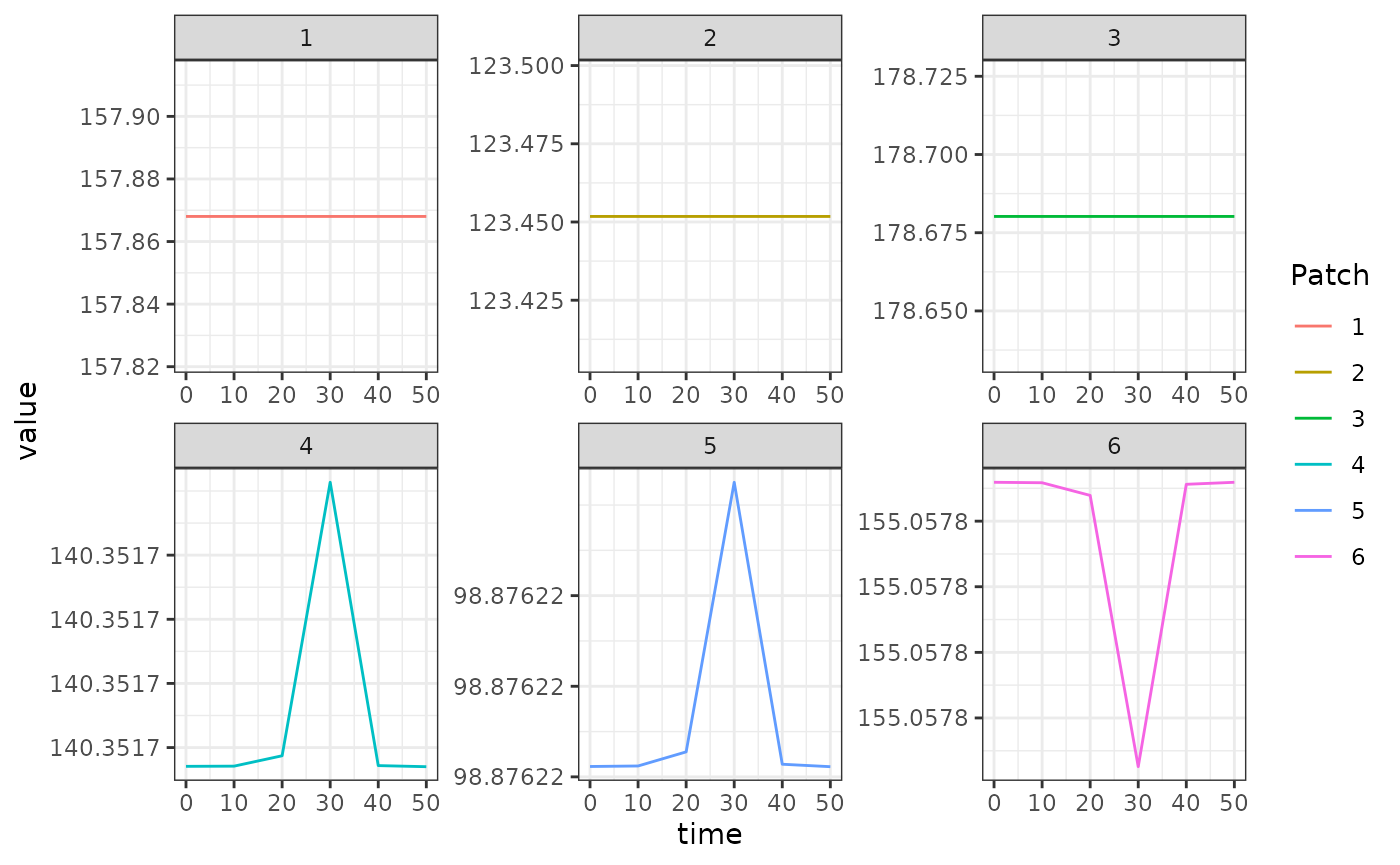
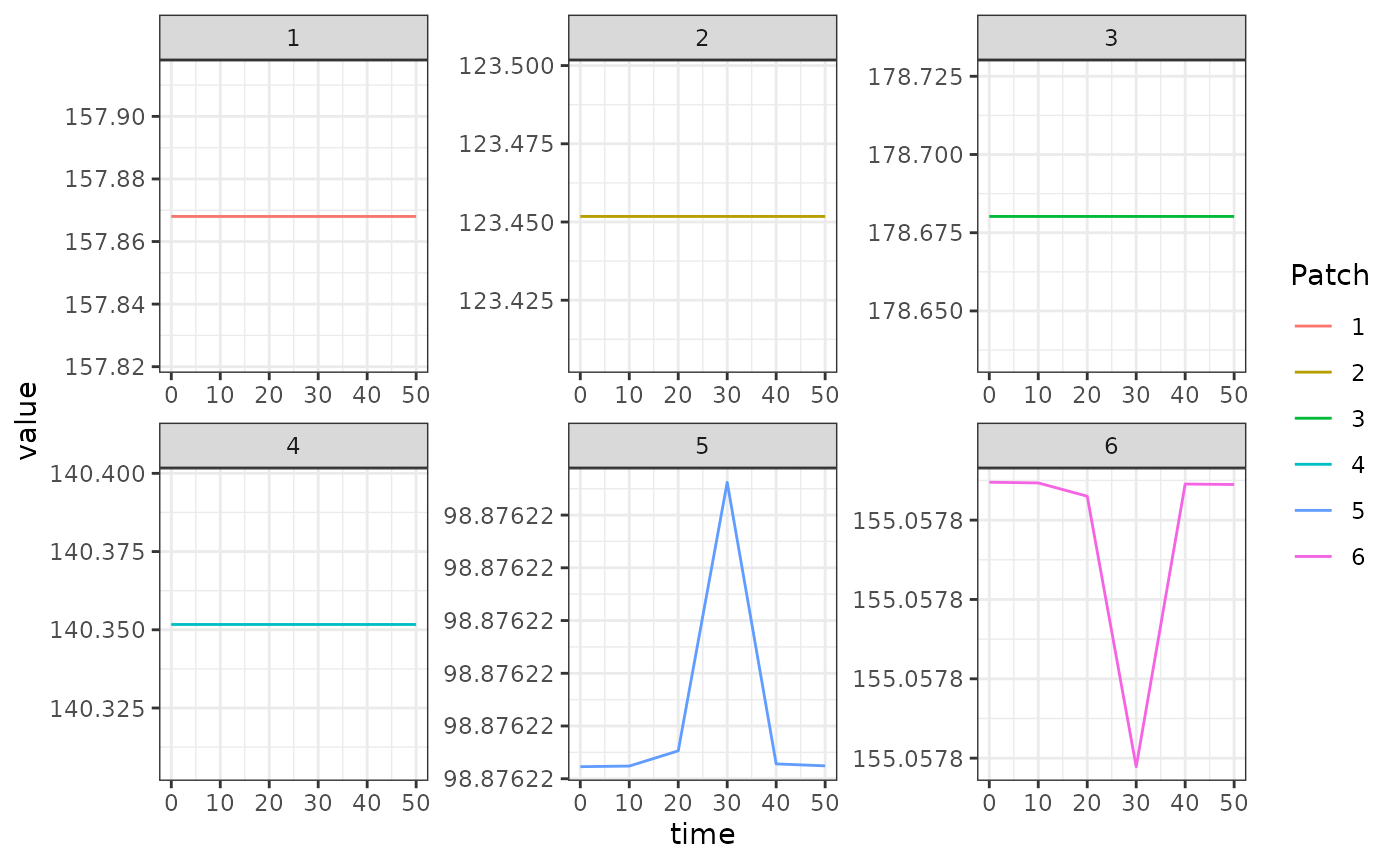
Deploying to gh-pages from @ dd-harp/ramp.xds@092d7075f1713df31aca73a8797d7768ee37d290 🚀

diff --git a/articles/Bionomics.html b/articles/Bionomics.html
@@ -306,20 +306,19 @@ be passed directly as <code>Koptions</code>:</p>
 <span><span class="co">## 5  9.533409e-10  4.489989e-06  0.004820927  4.975756e-01 -1.000000e+00</span></span></code></pre>
 </div>
 <div class="section level3">
-<h3 id="no_setup">
-<code>no_setup</code><a class="anchor" aria-label="anchor" href="#no_setup"></a>
+<h3 id="zero">
+<code>zero</code><a class="anchor" aria-label="anchor" href="#zero"></a>
 </h3>
-<p>Internally, the default <span class="math inline">\(K\)</span> matrix
-is set up with the option <code>no_setup,</code> which sets the <span class="math inline">\(K\)</span> matrix to all zeros.</p>
+<p>An option is <code>zero</code> which sets the <span class="math inline">\(K\)</span> matrix to all zeros.</p>
 <div class="sourceCode" id="cb14"><pre class="downlit sourceCode r">
-<code class="sourceCode R"><span><span class="va">mod</span> <span class="op">&lt;-</span> <span class="fu"><a href="../reference/setup_K_matrix.html">setup_K_matrix</a></span><span class="op">(</span><span class="st">"no_setup"</span>, <span class="va">mod</span><span class="op">)</span></span>
+<code class="sourceCode R"><span><span class="va">mod</span> <span class="op">&lt;-</span> <span class="fu"><a href="../reference/setup_K_matrix.html">setup_K_matrix</a></span><span class="op">(</span><span class="st">"zero"</span>, <span class="va">mod</span><span class="op">)</span></span>
 <span><span class="fu"><a href="../reference/get_K_matrix.html">get_K_matrix</a></span><span class="op">(</span><span class="va">mod</span><span class="op">)</span></span></code></pre></div>
-<pre><code><span><span class="co">##            [,1]          [,2]         [,3]          [,4]          [,5]</span></span>
-<span><span class="co">## 1 -1.000000e+00  4.975756e-01  0.004820927  4.489989e-06  9.533409e-10</span></span>
-<span><span class="co">## 2  9.903493e-01 -1.000000e+00  0.495179073  4.844259e-03  8.936647e-06</span></span>
-<span><span class="co">## 3  9.641768e-03  4.975756e-01 -1.000000000  4.975756e-01  9.641768e-03</span></span>
-<span><span class="co">## 4  8.936647e-06  4.844259e-03  0.495179073 -1.000000e+00  9.903493e-01</span></span>
-<span><span class="co">## 5  9.533409e-10  4.489989e-06  0.004820927  4.975756e-01 -1.000000e+00</span></span></code></pre>
+<pre><code><span><span class="co">##      [,1] [,2] [,3] [,4] [,5]</span></span>
+<span><span class="co">## [1,]    0    0    0    0    0</span></span>
+<span><span class="co">## [2,]    0    0    0    0    0</span></span>
+<span><span class="co">## [3,]    0    0    0    0    0</span></span>
+<span><span class="co">## [4,]    0    0    0    0    0</span></span>
+<span><span class="co">## [5,]    0    0    0    0    0</span></span></code></pre>
 </div>
 </div>
   </main><aside class="col-md-3"><nav id="toc" aria-label="Table of contents"><h2>On this page</h2>

diff --git a/articles/modular_forms.html b/articles/modular_forms.html
@@ -330,7 +330,7 @@ demography and ports for mass treatment. The code looks like this:</p>
 <span><span class="co">##         })</span></span>
 <span><span class="co">##     })</span></span>
 <span><span class="co">## }</span></span>
-<span><span class="co">## &lt;bytecode: 0x55fd4a0d23c8&gt;</span></span>
+<span><span class="co">## &lt;bytecode: 0x5654700bb140&gt;</span></span>
 <span><span class="co">## &lt;environment: namespace:ramp.xds&gt;</span></span></code></pre>
 <p>Derivatives for the mosquito ecology and “SI” model are computed by
 <code>dMYdt.SI</code>. Documentation is available through help in two
@@ -353,7 +353,7 @@ like this:</p>
 <span><span class="co">##         })</span></span>
 <span><span class="co">##     })</span></span>
 <span><span class="co">## }</span></span>
-<span><span class="co">## &lt;bytecode: 0x55fd4887d6f8&gt;</span></span>
+<span><span class="co">## &lt;bytecode: 0x56546e864598&gt;</span></span>
 <span><span class="co">## &lt;environment: namespace:ramp.xds&gt;</span></span></code></pre>
 <p>The term <span class="math inline">\(\Lambda\)</span> is passed from
 the trace function <code>F_emerge.trivial</code>. Documentation is
@@ -367,7 +367,7 @@ available through help in two ways: <code><a href="../reference/trivial_L.html">
 <span><span class="co">##         return(Lambda * F_season(t) * F_trend(t) * F_shock(t))</span></span>
 <span><span class="co">##     })</span></span>
 <span><span class="co">## }</span></span>
-<span><span class="co">## &lt;bytecode: 0x55fd476dfc78&gt;</span></span>
+<span><span class="co">## &lt;bytecode: 0x56546d6c9cb8&gt;</span></span>
 <span><span class="co">## &lt;environment: namespace:ramp.xds&gt;</span></span></code></pre>
 </div>
   </main><aside class="col-md-3"><nav id="toc" aria-label="Table of contents"><h2>On this page</h2>

diff --git a/articles/Bionomics.md b/articles/Bionomics.md
@@ -189,20 +189,19 @@ get_K_matrix(mod)
     ## 4  8.936647e-06  4.844259e-03  0.495179073 -1.000000e+00  9.903493e-01
     ## 5  9.533409e-10  4.489989e-06  0.004820927  4.975756e-01 -1.000000e+00
 
-### `no_setup`
+### `zero`
 
-Internally, the default \\K\\ matrix is set up with the option
-`no_setup,` which sets the \\K\\ matrix to all zeros.
+An option is `zero` which sets the \\K\\ matrix to all zeros.
 
 ``` r
 
-mod <- setup_K_matrix("no_setup", mod)
+mod <- setup_K_matrix("zero", mod)
 get_K_matrix(mod)
 ```
 
-    ##            [,1]          [,2]         [,3]          [,4]          [,5]
-    ## 1 -1.000000e+00  4.975756e-01  0.004820927  4.489989e-06  9.533409e-10
-    ## 2  9.903493e-01 -1.000000e+00  0.495179073  4.844259e-03  8.936647e-06
-    ## 3  9.641768e-03  4.975756e-01 -1.000000000  4.975756e-01  9.641768e-03
-    ## 4  8.936647e-06  4.844259e-03  0.495179073 -1.000000e+00  9.903493e-01
-    ## 5  9.533409e-10  4.489989e-06  0.004820927  4.975756e-01 -1.000000e+00
+    ##      [,1] [,2] [,3] [,4] [,5]
+    ## [1,]    0    0    0    0    0
+    ## [2,]    0    0    0    0    0
+    ## [3,]    0    0    0    0    0
+    ## [4,]    0    0    0    0    0
+    ## [5,]    0    0    0    0    0

diff --git a/articles/modular_forms.md b/articles/modular_forms.md
@@ -214,7 +214,7 @@ getS3method("dXHdt", "SIS")
     ##         })
     ##     })
     ## }
-    ## <bytecode: 0x55fd4a0d23c8>
+    ## <bytecode: 0x5654700bb140>
     ## <environment: namespace:ramp.xds>
 
 Derivatives for the mosquito ecology and “SI” model are computed by
@@ -242,7 +242,7 @@ getS3method("dMYdt", "SI")
     ##         })
     ##     })
     ## }
-    ## <bytecode: 0x55fd4887d6f8>
+    ## <bytecode: 0x56546e864598>
     ## <environment: namespace:ramp.xds>
 
 The term \\\Lambda\\ is passed from the trace function
@@ -263,5 +263,5 @@ getS3method("F_emerge", "trivial")
     ##         return(Lambda * F_season(t) * F_trend(t) * F_shock(t))
     ##     })
     ## }
-    ## <bytecode: 0x55fd476dfc78>
+    ## <bytecode: 0x56546d6c9cb8>
     ## <environment: namespace:ramp.xds>